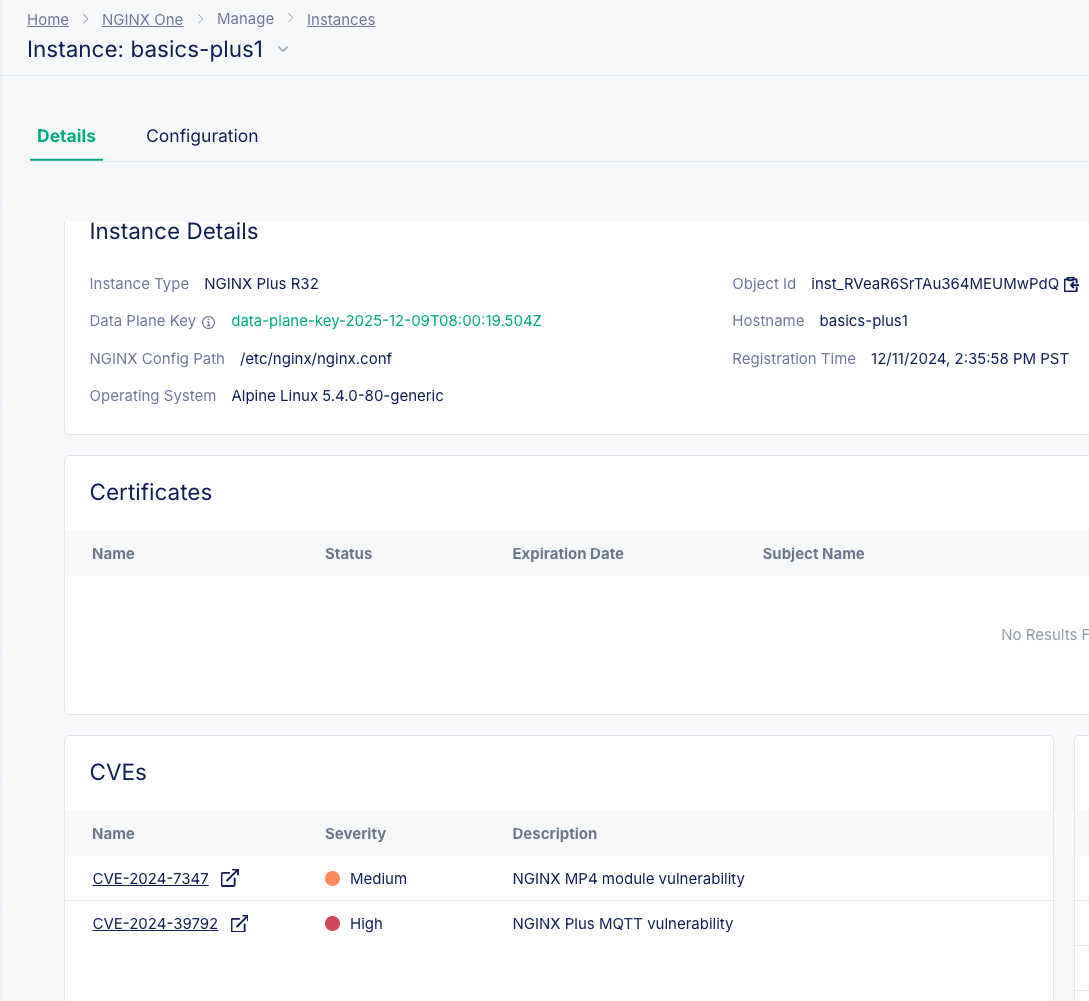
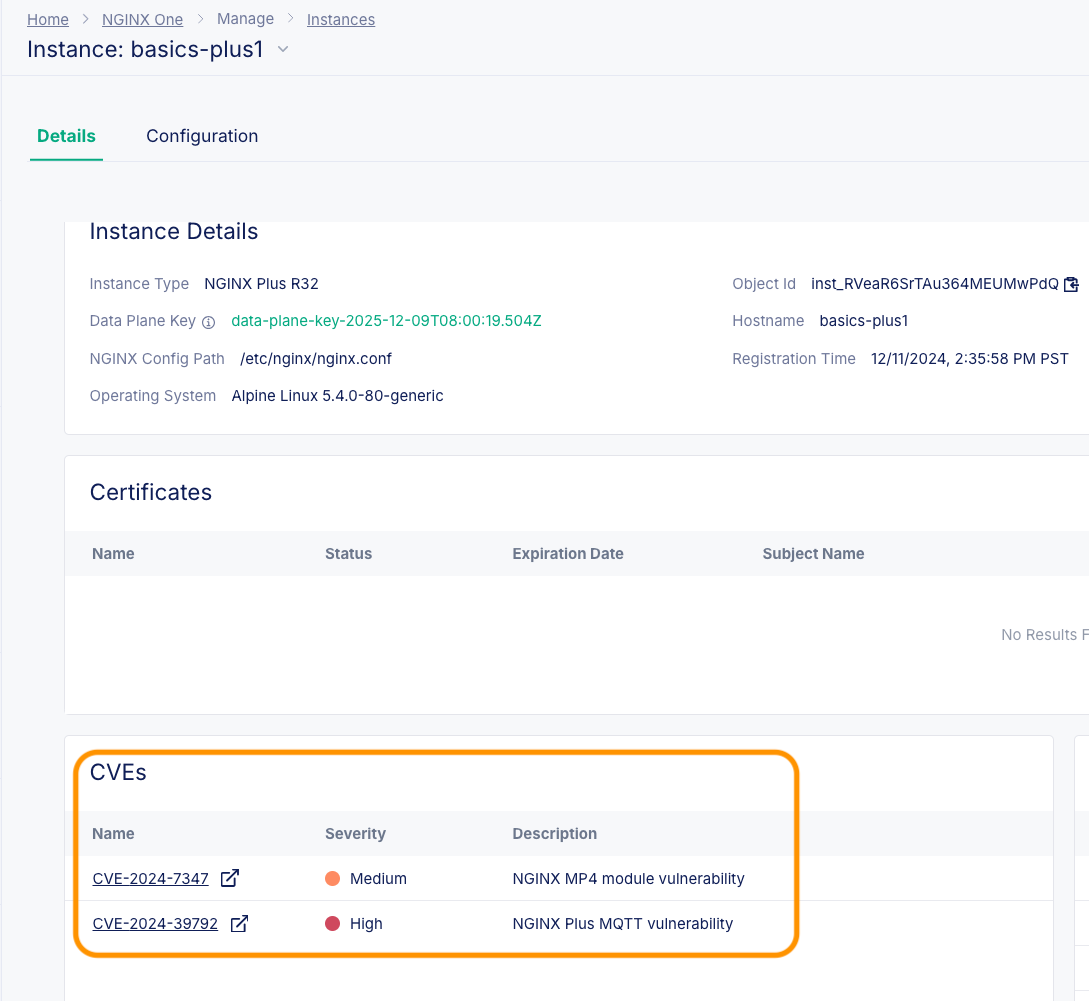
CVE writeup

Changed region(s): [[0.0624, 0.7433, 0.7493, 0.96]]

diff --git a/Plus/labs/lab7/readme.md b/Plus/labs/lab7/readme.md
@@ -442,6 +442,24 @@ Ok, so now what??  You can fix all these.  Just Click the `Edit Configuration` P
 
 ## Nginx One CVEs Overview
 
+![CVE](media/lab7_none-cves.png)
+
+One of the nice security feature of the NGINX One Console is the ability to provide a CVE summary with `High-Medium-Low Severity` classes. Clicking those classes reveals which Instances fall under them.
+
+1. Using the Overview Dashboard CVEs Panel, Click on the `High` Severity link. This will provide a List View of the Instances that have CVEs that are classified under `High` Severity.
+
+    ![High CVEs](media/lab7_none-cves-high.png)
+
+1. Click on the `basics-plus1` Instance. This will provide the Instance level Details, you will see a `CVEs` Section, this time with the Name, Severity and Description for each CVEs applicable to the instance.
+
+    ![Basics-plus1 CVE](media/lab7_basics-plus1-cves.png)
+
+1. If you click on one of the CVEs name hyperlink, for example `CVE-2024-39792`, it will directly open the CVE website on a new tab with detailed information and possible remediations.
+
+    ![High CVE redirect](media/lab7_basics-plus1-cves-redirect.png)
+
+1. In similar fashion explore, click on the `Medium` Severity link within the Overview Dashboard and explore all the other CVEs that are classified under `Medium` Severity.
+
 
 
 <br/>
